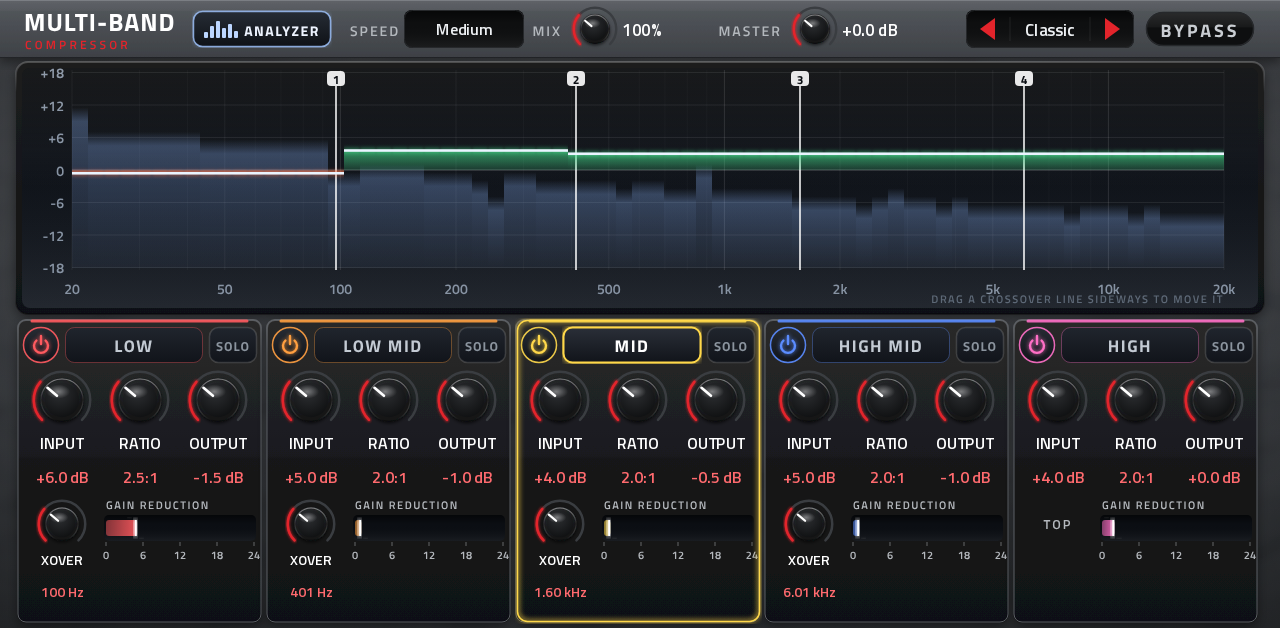
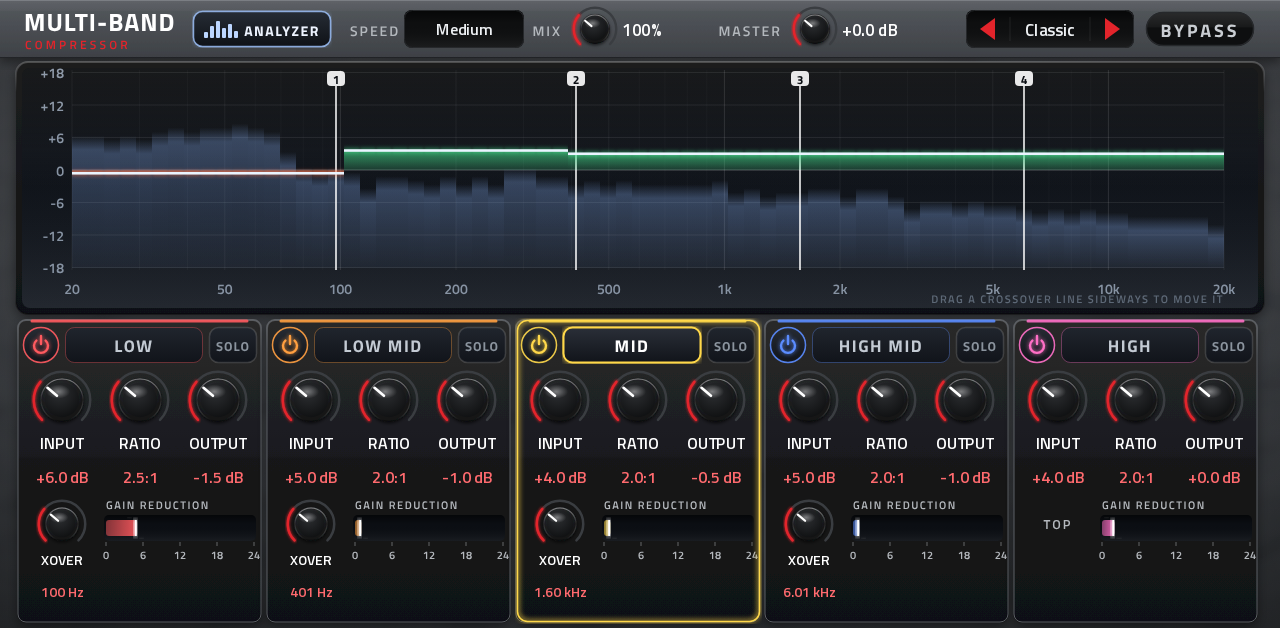
1.0.3: screen budget (analyzer stalling) and a finer analyzer
On the MPC the analyzer stopped after ~20 s. The plugin kept reporting (checked offline for 60 s in real time), but at
~960 display reports a second (analyzer ~500, gain bars ~350, meters), and each is a repaint on MPC's screen thread
(the toolchain measured a 48-column display at 10 fps, one report per column, at more than a core there).

- Analyzer: at most 24 of its 72 columns move per picture, those furthest from their new height (rises first).
- Gain bars: a band moves on a change of 2 steps (1.2 dB), or a smaller one held for 3 pictures, and at most 40
  columns a picture (one band always may). Edits still redraw every column at once, exactly.
- Now ~360 reports a second with everything busy; tests/test_automation.c fails above 450.
- Finer analyzer at the same screen cost: 4096-point FFT (10.8 Hz bins), columns narrower than two bins read the power
  interpolated at their own centre (the low columns no longer share bins), 49 frames (1.25 dB steps, was 2.5 dB),
  1.5 dB a picture fall.

Claude-Session: https://claude.ai/code/session_01LjdQit2NuwMjb762jsbMht

diff --git a/src/engine.cpp b/src/engine.cpp
@@ -59,10 +59,21 @@ static const int DEF_SEL = 2;                  /* selected at first: the middle 
 static const int TOUCH_HOLD = 86;              /* blocks (~250 ms) a touch glow stays after the finger's last move */
 static const int SNAP_HOLD = 86;               /* blocks a crossover pushed against its neighbour waits before its knob follows */
 static const int NBAR = 72;                    /* analyzer columns */
-static const int FFT_N = 2048;
-static const int BAR_STEPS = 24;               /* analyzer frames: 0 = nothing .. 24 = 0 dBFS, 2.5 dB a step */
+static const int FFT_N = 4096;                 /* 10.8 Hz bins: the low columns get bins of their own */
+static const int BAR_STEPS = 48;               /* analyzer frames: 0 = nothing .. 48 = 0 dBFS, 1.25 dB a step */
 static const float BAR_FLOOR = -60.0f;
+static const float BAR_FALL = 1.5f;            /* dB an analyzer column falls per picture (~15 dB a second) */
 static const int AN_BLOCKS = 34;               /* screen pictures (analyzer, meters, live curve) every 34 blocks (~99 ms) */
+/* The screen budget. Every value that moves costs MPC's screen thread a repaint (the toolchain measured a 48-column
+ * display at 10 a second, one report per column, at more than a whole core on its screen thread), and a screen that
+ * falls behind looks frozen. So per picture (~10 a second) the analyzer moves at most AN_BUDGET of its columns (the
+ * ones furthest from where they should be), and the live gain bars at most LIVE_COL_BUDGET columns, a band moving only
+ * when its gain changed by GAIN_JUMP steps or more, or by less for GAIN_HOLD pictures in a row (no flicker). Edits
+ * (a knob, a crossover) redraw the bars at once, exactly. Before this, a busy mix sent ~960 reports a second. */
+static const int AN_BUDGET = 24;
+static const int LIVE_COL_BUDGET = 40;
+static const int GAIN_JUMP = 2;                /* curve steps (0.6 dB each) */
+static const int GAIN_HOLD = 3;
 static const int GR_STEPS = 24;                /* a gain-reduction meter's frames: 0 .. 24 dB, 1 dB a frame */
 static const float XGAP = 33.0f;               /* crossovers stay at least 1/3 octave apart (knob units: 100 = 1 octave) */
 static const float X_MIN = 59.0f, X_MAX = 917.0f;   /* crossovers 30 Hz .. 11 kHz */
@@ -186,9 +197,12 @@ struct Comp {
     int analyzer = 0;
     float an_buf[FFT_N];
     float fre[FFT_N], fim[FFT_N];
+    float win[FFT_N];                          /* the Hann window, made once */
     int an_pos = 0, an_wait = 0;
     float bar_db[NBAR];
     int bar[NBAR];
+    int bshown[NB], bwait[NB];                 /* each band's gain bar as shown (curve step, -1 = not yet), and how long
+                                                * a small change has waited */
 };
 
 /* where each crossover really sits: in order and at least XGAP apart, whatever order the knobs were set in. The one moved
@@ -243,23 +257,56 @@ static void update_weights(Comp *p)
     }
 }
 
-/* the curve (net gain per column) and the crossover lines; display_rev moves when any of it changed */
-static void update_curve(Comp *p)
+/* the gain bars (each band's gain right now, flat across its columns) and the crossover lines; display_rev moves when
+ * any of it changed. live: the ~10-a-second refresh while audio plays, under the screen budget; otherwise (an edit)
+ * every column is redrawn exactly */
+static int band_of_column(const Comp *p, int c)
+{
+    for (int b = 0; b < NB; ++b) if (p->wcol[c][b] > 0.5f) return b;
+    return 0;
+}
+
+static void update_curve(Comp *p, bool live)
 {
     bool moved = false;
     float mx = p->mixpct / 100.0f;
     bool any_solo = false;
     for (int b = 0; b < NB; ++b) any_solo |= p->b[b].solo != 0;
-    for (int c = 0; c < NCOL; ++c) {
-        float g = 0.0f, dry = 0.0f;
-        for (int b = 0; b < NB; ++b) {
-            float au = !any_solo || p->b[b].solo ? 1.0f : 0.0f;
-            g += p->wcol[c][b] * p->b[b].gain_now;
-            dry += p->wcol[c][b] * au;
-        }
-        g = mx * g + (1.0f - mx) * dry;
+    int target[NB], ncols[NB] = {0};
+    for (int b = 0; b < NB; ++b) {
+        float au = !any_solo || p->b[b].solo ? 1.0f : 0.0f;
+        float g = mx * p->b[b].gain_now + (1.0f - mx) * au;
         float db = p->bypass ? 0.0f : 20.0f * log10f(fmaxf(g, 1e-6f)) + p->master;
-        int v = (int)lrintf((clampf(db, -CURVE_DB, CURVE_DB) + CURVE_DB) / (2 * CURVE_DB) * CURVE_STEPS);
+        target[b] = (int)lrintf((clampf(db, -CURVE_DB, CURVE_DB) + CURVE_DB) / (2 * CURVE_DB) * CURVE_STEPS);
+    }
+    for (int c = 0; c < NCOL; ++c) ++ncols[band_of_column(p, c)];
+    bool redraw[NB];
+    if (!live) {
+        for (int b = 0; b < NB; ++b) { redraw[b] = true; p->bwait[b] = 0; }
+    } else {
+        /* the bands that need moving, biggest change first, while the column budget lasts (one band always may) */
+        int want[NB], n = 0, used = 0;
+        for (int b = 0; b < NB; ++b) {
+            redraw[b] = false;
+            int d = abs(target[b] - p->bshown[b]);
+            if (d == 0) { p->bwait[b] = 0; continue; }
+            if (p->bshown[b] < 0 || d >= GAIN_JUMP || ++p->bwait[b] >= GAIN_HOLD) want[n++] = b;
+        }
+        for (int i = 0; i < n; ++i)
+            for (int j = i + 1; j < n; ++j)
+                if (abs(target[want[j]] - p->bshown[want[j]]) > abs(target[want[i]] - p->bshown[want[i]])) {
+                    int t = want[i]; want[i] = want[j]; want[j] = t;
+                }
+        for (int i = 0; i < n; ++i) {
+            int b = want[i];
+            if (used > 0 && used + ncols[b] > LIVE_COL_BUDGET) continue;   /* next picture */
+            redraw[b] = true; used += ncols[b]; p->bwait[b] = 0;
+        }
+    }
+    for (int b = 0; b < NB; ++b) if (redraw[b]) p->bshown[b] = target[b];
+    for (int c = 0; c < NCOL; ++c) {
+        int b = band_of_column(p, c);
+        int v = p->bshown[b] < 0 ? target[b] : p->bshown[b];
         if (v != p->col[c]) { p->col[c] = v; moved = true; }
     }
     float e[NX];
@@ -300,9 +347,11 @@ static void *create(const char *)
     for (int b = 0; b < NB; ++b) { p->b[b].rpos = lrintf(ratio_pos(2.0f)); p->grm[b] = -1; }
     for (int c = 0; c < NCOL; ++c) { p->col[c] = -1; p->col_touched[c] = 0; }
     for (int k = 0; k < NBAR; ++k) { p->bar_db[k] = BAR_FLOOR - 20; p->bar[k] = 0; }
+    for (int b = 0; b < NB; ++b) { p->bshown[b] = -1; p->bwait[b] = 0; }
+    for (int i = 0; i < FFT_N; ++i) p->win[i] = 0.5f - 0.5f * cosf(2.0f * (float)M_PI * i / FFT_N);
     memset(p->an_buf, 0, sizeof p->an_buf);
     update_weights(p);
-    update_curve(p);
+    update_curve(p, false);
     update_meters(p);
     return p;
 }
@@ -573,29 +622,47 @@ static void fft(float *re, float *im, int n)
     }
 }
 
+/* the analyzer: the last FFT_N samples -> NBAR log-spaced columns. A column narrower than two FFT bins reads the power
+ * interpolated at its own centre frequency (so the low columns differ, instead of several sharing one bin); a wider one
+ * its loudest bin (a tone reads at its level). Rises at once, falls BAR_FALL dB a picture. Then only the AN_BUDGET
+ * columns furthest from their new height move (rises first), the rest catch up on the next pictures */
 static void update_analyzer(Comp *p)
 {
     float *re = p->fre, *im = p->fim;
     for (int i = 0; i < FFT_N; ++i) {
-        float w = 0.5f - 0.5f * cosf(2.0f * (float)M_PI * i / FFT_N);
-        re[i] = p->an_buf[(p->an_pos + i) & (FFT_N - 1)] * w;
+        re[i] = p->an_buf[(p->an_pos + i) & (FFT_N - 1)] * p->win[i];
         im[i] = 0.0f;
     }
     fft(re, im, FFT_N);
+    for (int i = 0; i <= FFT_N / 2; ++i) re[i] = re[i] * re[i] + im[i] * im[i];   /* power, in place */
     const float binhz = SR / FFT_N, norm = 4.0f / FFT_N;
-    bool moved = false;
+    int target[NBAR], prio[NBAR], order[NBAR], n = 0;
     for (int k = 0; k < NBAR; ++k) {
         float f0 = F_LO * powf(F_HI / F_LO, (float)k / NBAR), f1 = F_LO * powf(F_HI / F_LO, (float)(k + 1) / NBAR);
-        int b0 = (int)(f0 / binhz), b1 = (int)(f1 / binhz);
-        if (b1 < b0 + 1) b1 = b0 + 1;
-        float pw = 0.0f;
-        for (int b = b0; b <= b1 && b < FFT_N / 2; ++b) pw = fmaxf(pw, re[b] * re[b] + im[b] * im[b]);
+        float pw;
+        if ((f1 - f0) / binhz < 2.0f) {
+            float x = sqrtf(f0 * f1) / binhz;
+            int i0 = (int)x;
+            float fr = x - i0;
+            pw = re[i0] + (re[i0 + 1] - re[i0]) * fr;
+        } else {
+            int b0 = (int)(f0 / binhz), b1 = (int)(f1 / binhz);
+            pw = 0.0f;
+            for (int b = b0; b <= b1 && b <= FFT_N / 2; ++b) pw = fmaxf(pw, re[b]);
+        }
         float db = 10.0f * log10f(pw * norm * norm + 1e-20f);
-        p->bar_db[k] = db > p->bar_db[k] ? db : fmaxf(db, p->bar_db[k] - 2.5f);
-        int v = (int)lrintf(clampf((p->bar_db[k] - BAR_FLOOR) / -BAR_FLOOR * BAR_STEPS, 0, BAR_STEPS));
-        if (v != p->bar[k]) { p->bar[k] = v; moved = true; }
+        p->bar_db[k] = db > p->bar_db[k] ? db : fmaxf(db, p->bar_db[k] - BAR_FALL);
+        target[k] = (int)lrintf(clampf((p->bar_db[k] - BAR_FLOOR) / -BAR_FLOOR * BAR_STEPS, 0, BAR_STEPS));
+        int d = target[k] - p->bar[k];
+        if (d) { prio[k] = d > 0 ? 2 * d : -d; order[n++] = k; }
     }
-    if (moved) ++p->display_rev;
+    for (int i = 1; i < n; ++i) {                     /* biggest moves first (insertion sort: n <= 72) */
+        int k = order[i], j = i - 1;
+        while (j >= 0 && prio[order[j]] < prio[k]) { order[j + 1] = order[j]; --j; }
+        order[j + 1] = k;
+    }
+    for (int i = 0; i < n && i < AN_BUDGET; ++i) p->bar[order[i]] = target[order[i]];
+    if (n) ++p->display_rev;
 }
 
 /* a one-pole coefficient for a time constant in ms */
@@ -625,12 +692,12 @@ static void process(void *inst, const int16_t *in_lr, int16_t *out_lr, int frame
             }
     }
     if (p->curve_wait > 0) --p->curve_wait;
-    if (p->curve_dirty && p->curve_wait == 0) { p->curve_dirty = 0; p->curve_wait = 3; update_weights(p); update_curve(p); }
+    if (p->curve_dirty && p->curve_wait == 0) { p->curve_dirty = 0; p->curve_wait = 3; update_weights(p); update_curve(p, false); }
     if (++p->an_wait >= AN_BLOCKS) {
         p->an_wait = 0;
         if (p->analyzer) update_analyzer(p);
         update_meters(p);
-        update_curve(p);                                  /* the live curve follows the gain reduction */
+        update_curve(p, true);                            /* the live gain bars follow the compression */
     }
 
     /* ---- per-block settings ---- */

diff --git a/tests/test_automation.c b/tests/test_automation.c
@@ -8,7 +8,8 @@
  *     must report nothing for any setting;
  *   - the display values (curve, meters, analyzer) must keep being reported (that is how the screen moves), and must
  *     answer "no" to effCanBeAutomated so they can't be recorded and replayed into the engine;
- *   - a crossover dragged on the graph is the engine moving a setting itself: it is reported, so its knob follows.
+ *   - a crossover dragged on the graph is the engine moving a setting itself: it is reported, so its knob follows;
+ *   - the screen stays within its budget of reports a second (each one is a repaint on MPC's screen thread).
  * Prints PASS / FAIL lines and exits 1 on any failure. */
 #include <dlfcn.h>
 #include <math.h>
@@ -165,6 +166,15 @@ int main(int argc, char **argv)
     check("knob and switch changes are not reported back (not recorded)", n == 0, n ? msg : "none reported");
     snprintf(msg, sizeof msg, "%d reports", reported_display());
     check("the screen still moves: display values reported", reported_display() > 50, msg);
+
+    /* the screen budget: every report costs MPC's screen thread a repaint, and a screen that falls behind looks frozen.
+     * Loud, busy audio with the analyzer on, 5 s in real time (before the budget: ~960 reports a second) */
+    e->setParameter(e, index_of("analyzer"), 1.0f);
+    play(e, 0.5);
+    memset(automated, 0, sizeof automated);
+    play(e, 5.0);
+    snprintf(msg, sizeof msg, "%.0f reports a second (analyzer, gain bars, meters)", reported_display() / 5.0);
+    check("screen budget: at most 450 display reports a second", reported_display() / 5.0 <= 450, msg);
 
     /* 2. MPC's nudge of parameter 0 (MIX) at prepare, and a project load */
     memset(automated, 0, sizeof automated);

diff --git a/tools/make_skin_art.py b/tools/make_skin_art.py
@@ -230,7 +230,7 @@ GRAPH = (16, 62, 1248, 252)                              # the display panel: x,
 NCOL, COL_W = 72, 16
 PLOT_X, PLOT_Y, PLOT_H = 72, 70, 200                     # the curve: 72 columns of 16 px from x 72, 200 px tall
 CURVE_DB, CURVE_STEPS = 18, 60                           # -18 .. +18 dB in 60 steps (frame 30 = 0 dB)
-NBAR, BAR_STEPS = 72, 24                                 # analyzer: a haze behind the curve
+NBAR, BAR_STEPS = 72, 48                                 # analyzer: a haze behind the curve, 72 columns, 1.25 dB steps (-60..0 dBFS)
 F_LO, F_HI = 20.0, 20000.0
 NX = 4
 

diff --git a/tests/test_comp.py b/tests/test_comp.py
@@ -261,7 +261,7 @@ cols = [col(hz) + 1 for hz in (100, 400, 1600, 6000)]
 check("crossover lines sit on their frequencies", all(abs(a - b) <= 1 for a, b in zip(info["xm"], cols)),
       "%s vs %s" % (info["xm"], cols))
 _, _, info = run(tone(1000, -12, 1.0), analyzer=1, **only())
-lvl = info["bars"][col(1000)] * 2.5 - 60
+lvl = info["bars"][col(1000)] * 1.25 - 60
 check("analyzer: a 1 kHz tone at -12 dBFS reads about -12 dB at 1 kHz", abs(lvl + 12) <= 3.5, "%.1f dB" % lvl)
 
 # a touch on the graph moves the nearest crossover line there

diff --git a/README.md b/README.md
@@ -47,6 +47,10 @@ Download `Multi-Band-Compressor-<version>-mpc.zip` from [Releases](../../release
   attack/release detector (Giannoulis, Massberg & Reiss, JAES 2012).
 - **MIX** blends with the same bands unprocessed, so parallel compression doesn't comb.
 - Every knob glides or fades (about 10-20 ms): no clicks from any control.
+- **Screen budget.** Every value that moves on screen costs MPC's screen thread a repaint, and a screen that falls behind
+  looks frozen. The analyzer (4096-point FFT, each column read at its own frequency, 1.25 dB steps) moves at most 24 of
+  its 72 columns a picture, the ones furthest behind; the gain bars move a band only on a real change. About 360
+  screen reports a second with everything busy (before 1.0.3: ~960); `tests/test_automation.c` checks it stays under 450.
 - Signal flow and details: the comment at the top of [src/engine.cpp](src/engine.cpp).
 
 ## Status
